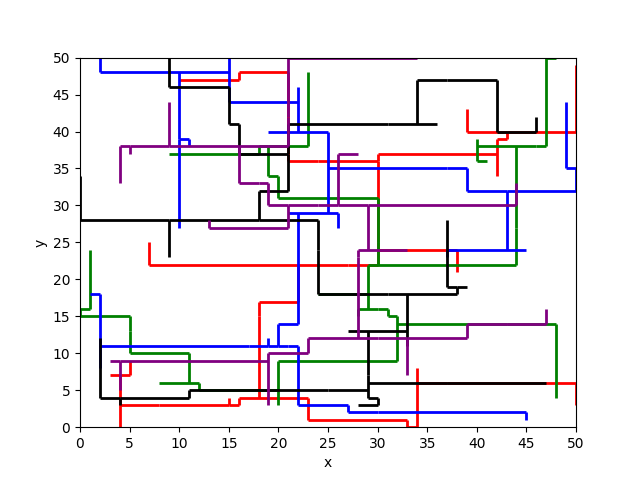
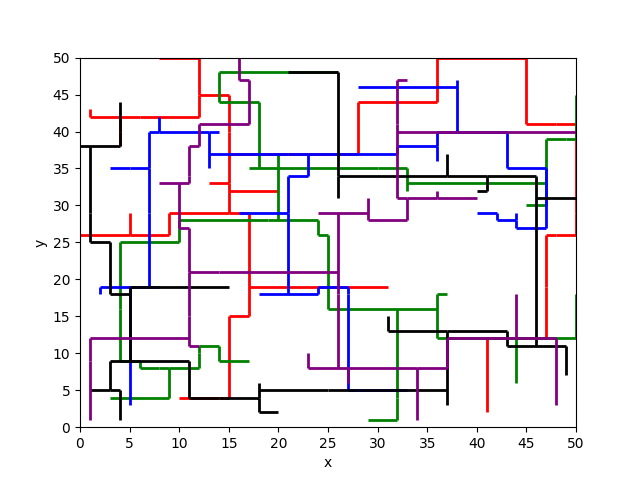
bug fix

Changed region(s): [[0.125, 0.125, 0.9062, 0.9062]]

diff --git a/src/algorithms/mst.py b/src/algorithms/mst.py
@@ -22,15 +22,15 @@ class Mst(object):
                 for i in range(n + 1, len(self.nodes)):
                     for j, other_item in enumerate(self.nodes[i]):
                         dist = item.distance(other_item)
-                        if dist < shortest_distance:
+                        if dist <= shortest_distance:
                             shortest_distance = dist
                             shortest_pair = [(n, m), (i, j)]
         return (shortest_pair)
 
     def merge_networks(self, networkA, networkB, new_nodes):
-    	connected_list = []
-    	self.nodes[networkA[0]] = self.nodes[networkA[0]] + self.nodes[networkB[0]] + new_nodes 
-    	self.nodes.pop(networkB[0])
+        connected_list = []
+        self.nodes[networkA[0]] = self.nodes[networkA[0]] + self.nodes[networkB[0]] + new_nodes
+        self.nodes.pop(networkB[0])
 
 
     def create_path(self, begin_node, end_node):
@@ -49,11 +49,13 @@ class Mst(object):
         # heuristics can be added here to decide wheter to equate x or y coordinates first
         else:
             self.equate_width(start, end, new_nodes)
+            # print(new_nodes)
             self.equate_height(start, end, new_nodes)
             return new_nodes
 
     # lay cables untill target's x coordinate is reached
     def equate_width(self, start, end, new_nodes):
+
         width = start.x - end.x
         height = start.y - end.y
         length = abs(height) + abs(width)
@@ -74,8 +76,6 @@ class Mst(object):
                 for i in range(1, abs(width)):
                     new_nodes.append(Network((start.x - i), start.y))
 
-        return new_nodes
-
     # lay cables untill target's y coordinate is reached
     def equate_height(self, start, end, new_nodes):
         width = start.x - end.x
@@ -89,8 +89,6 @@ class Mst(object):
             for i in range(1, abs(height)):
                 new_nodes.append(Network(end.x, (start.y - i)))
 
-        return new_nodes
-
     def randomize_direction(self):
         pass
 
@@ -99,8 +97,8 @@ class Mst(object):
             spots = self.find_shortest_distance()
             new_nodes = self.create_path(spots[0], spots[1])
             self.total_cost += len(new_nodes) + 1
+            # print(self.total_cost)
             self.merge_networks(spots[0], spots[1], new_nodes)
-        # print(self.total_cost)
 
     def create_lines(self, x_1, y_1, x_2, y_2):
         self.lines.append([(x_1, y_1), (x_2, y_1)])

diff --git a/src/algorithms/simanneal.py b/src/algorithms/simanneal.py
@@ -122,16 +122,13 @@ class SimAnneal(HillClimber):
 
 if __name__ == '__main__':
 
-    CSV_HOUSES = '../../data/wijk2_huizen.csv'
-    CSV_BATTERIES = '../../data/wijk2_batterijen.csv'
+    CSV_HOUSES = '../../data/wijk3_huizen.csv'
+    CSV_BATTERIES = '../../data/wijk3_batterijen.csv'
     CSV_FILE_HOUSES = '../../data/solutions/wijk1/solution_2752.csv'
 
     houses = data_structure.read_csv(CSV_HOUSES, house=True)
     batteries = data_structure.read_csv(CSV_BATTERIES)
 
-    print(houses)
-    print(len(houses))
-    print(batteries)
     solutions = []
 
     hill = SimAnneal(houses, batteries, temperature=10, max_iter=55000)

diff --git a/src/data_structure.py b/src/data_structure.py
@@ -6,7 +6,6 @@ import matplotlib as plt
 import sys
 
 
-# https://stackoverflow.com/questions/8107313/isinstance-and-issubclass-behavior-differently
 class Network(object):
     def __init__(self, x, y):
         self.x = x
@@ -35,8 +34,8 @@ class Network(object):
         if isinstance(other, Network):
             return self.power > other.power
 
-    def __repr__(self):
-        return str(self.power)
+    # def __repr__(self):
+        # return str(self.power)
 
     # def __add__(self, other):
     #     if isinstance(other, Network):

diff --git a/src/algorithms/hill_climber.py b/src/algorithms/hill_climber.py
@@ -70,6 +70,7 @@ class HillClimber(object):
 
         for i, el in enumerate(self.bins):
             self.cost_values[i] = self.mean_distance_check(el, i)
+        
 
 
     # check total value inside bin
@@ -203,7 +204,7 @@ class HillClimber(object):
         for bucket in range(len(bins)):
             if not self.constraint_check(bins[bucket]):
                 raise FitError
-        return np.array(bins)      
+        return bins
 
 
     # run the simulation iterations times and save best values , DOES NOT WORK 
